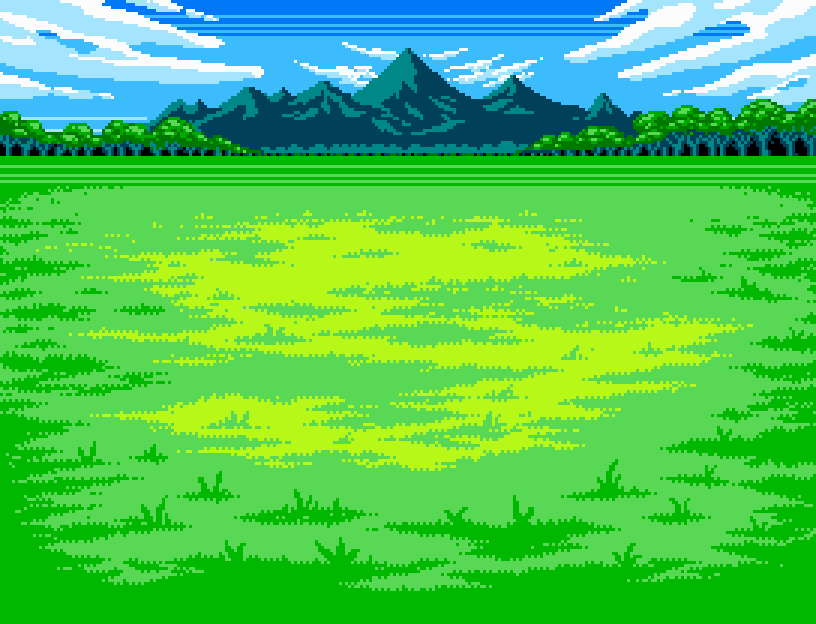
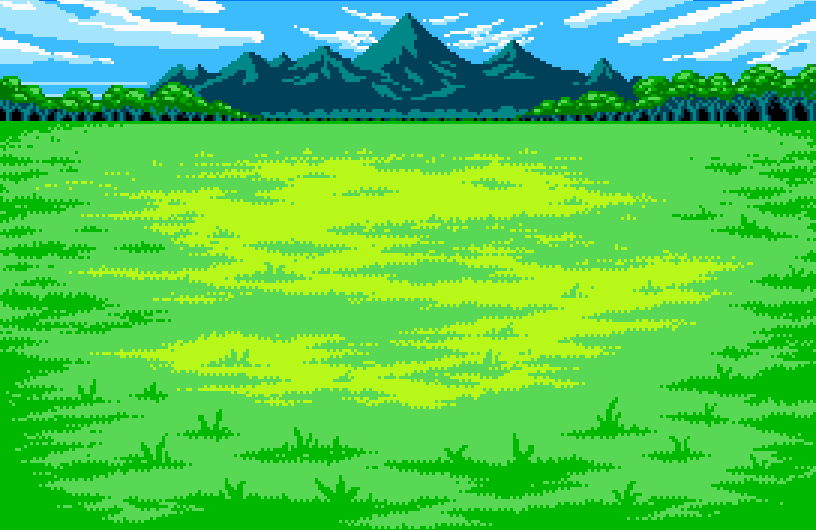
Update encounter card to Final Fantasy style

diff --git a/public/styles/styles.css b/public/styles/styles.css
@@ -21,15 +21,76 @@ body {
 }
 
 #encounter-card {
+  position: relative;
   margin: 30px 0px 30px 0px;
   width: 100%;
-  background: url(../images/battlefield.png);
+  background-image: url(../images/battlefield.png);
   background-size: cover;
+  background-repeat: no-repeat;
+  background-position: top center;
+  height: 400px;
+  height: 530px;
+  padding: 0;
+  border-radius: 10px;
+}
+
+#battleName {
+  font-size: 20px;
+  margin-bottom: 0;
+}
+
+.message-box {
+  width: 100%;
+  background: linear-gradient(to bottom, #1F2497, #0A1152);
+  border: 4px solid #F2F7FF;
+  border-radius: 10px;
+  color: #fff;
+}
+.message-box--top {
+  height: 52px;
+  padding-top: 10px;
+  padding-bottom: 10px;
+  text-align: center;
+  margin-bottom: 100px;
+}
+
+.message-box--bottom {
+  position: absolute;
+  height: 130px;
+  left: 0;
+  right: 0;
+  bottom: 0;
+  padding-top: 8px;
+}
+
+.encounter-army {
+  position: absolute;
+  top: 160px;
+  font-size: 18px;
+  font-weight: 700;
+}
+
+.user-army {
+  left: 150px;
+}
+
+.user-army .encounter-troop:nth-child(2) {
+  position: relative;
+  left: 58px;
+}
+
+.enemy-army {
+  right: 150px;
+  text-align: right;
+}
+
+.enemy-army .encounter-troop:nth-child(2) {
+  position: relative;
+  right: 58px;
 }
 
 #encounter-card .btn {
   margin: 10px;
-  background-color: royalblue;
 }
 
 img {
@@ -59,10 +120,6 @@ img {
   margin-top: 22px;
 }
 
-#enemy {
-  text-align: right;
-}
-
 #profile-img {
   border-radius: 50%;
   height: 50px;
@@ -82,6 +139,14 @@ img {
 
 .modal-header {
   text-align: center;
+}
+
+.encounter-troop {
+  display: block;
+}
+
+.encounter-troop__img {
+  height: 60px;
 }
 
 #encounter-img-archer,
@@ -139,19 +204,29 @@ img {
 }
 
 .battle-gif {
+  position: absolute;
+  top: 50%;
+  left: 50%;
+  transform: translate(-50%, -50%);
   height: 125px;
   animation: pulse 2s infinite;
 }
 
 @keyframes pulse {
   0% {
-    transform: scale(1)
+    /* transform: scale(1) */
+    height: 165px;
+    width: 165px
   }
   50% {
-    transform: scale(1.2)
+    /* transform: scale(1.2) */
+    height: 125px;
+    width: 125px
   }
   100% {
-    transform: scale(1)
+    /* transform: scale(1) */
+    height: 165px;
+    width: 165px
   }
 }
 /* ================================================================================== */
@@ -480,7 +555,9 @@ img {
 }
 
 .subtractor {
-  color: red
+  color: red;
+  margin: 0 5px;
+  display: inline-block;
 }
 
 .collapse-completed {

diff --git a/public/js/battle.js b/public/js/battle.js
@@ -10,7 +10,6 @@ var provinceTotal;
 //varibles for sound clips
 var battleSounds;
 var battleStart; 
-var battleGif = $('<img class="battle-gif" src="./images/crossed-swords.png">');
 
 
 $(document).ready(function(){
@@ -44,7 +43,7 @@ $(document).on("click", "#fight-btn", function(){
     battleSounds.play();
     battleStart.play();
     $("#battle-buttons").html("");
-    $("#fight-flee").append(battleGif);
+    $(".battle-gif").removeClass("d-none");
 
      battle.battleInit(armyOne, armyTwo);
 });
@@ -311,7 +310,7 @@ var battle = {
         }
 
         $("#resultModal").modal();
-        $(battleGif).remove();
+        $('.battle-gif').addClass("d-none");
         var newPlayerResults = this.exportObject;
         var endGame = $("<div>");
         if (isVictory === false){
